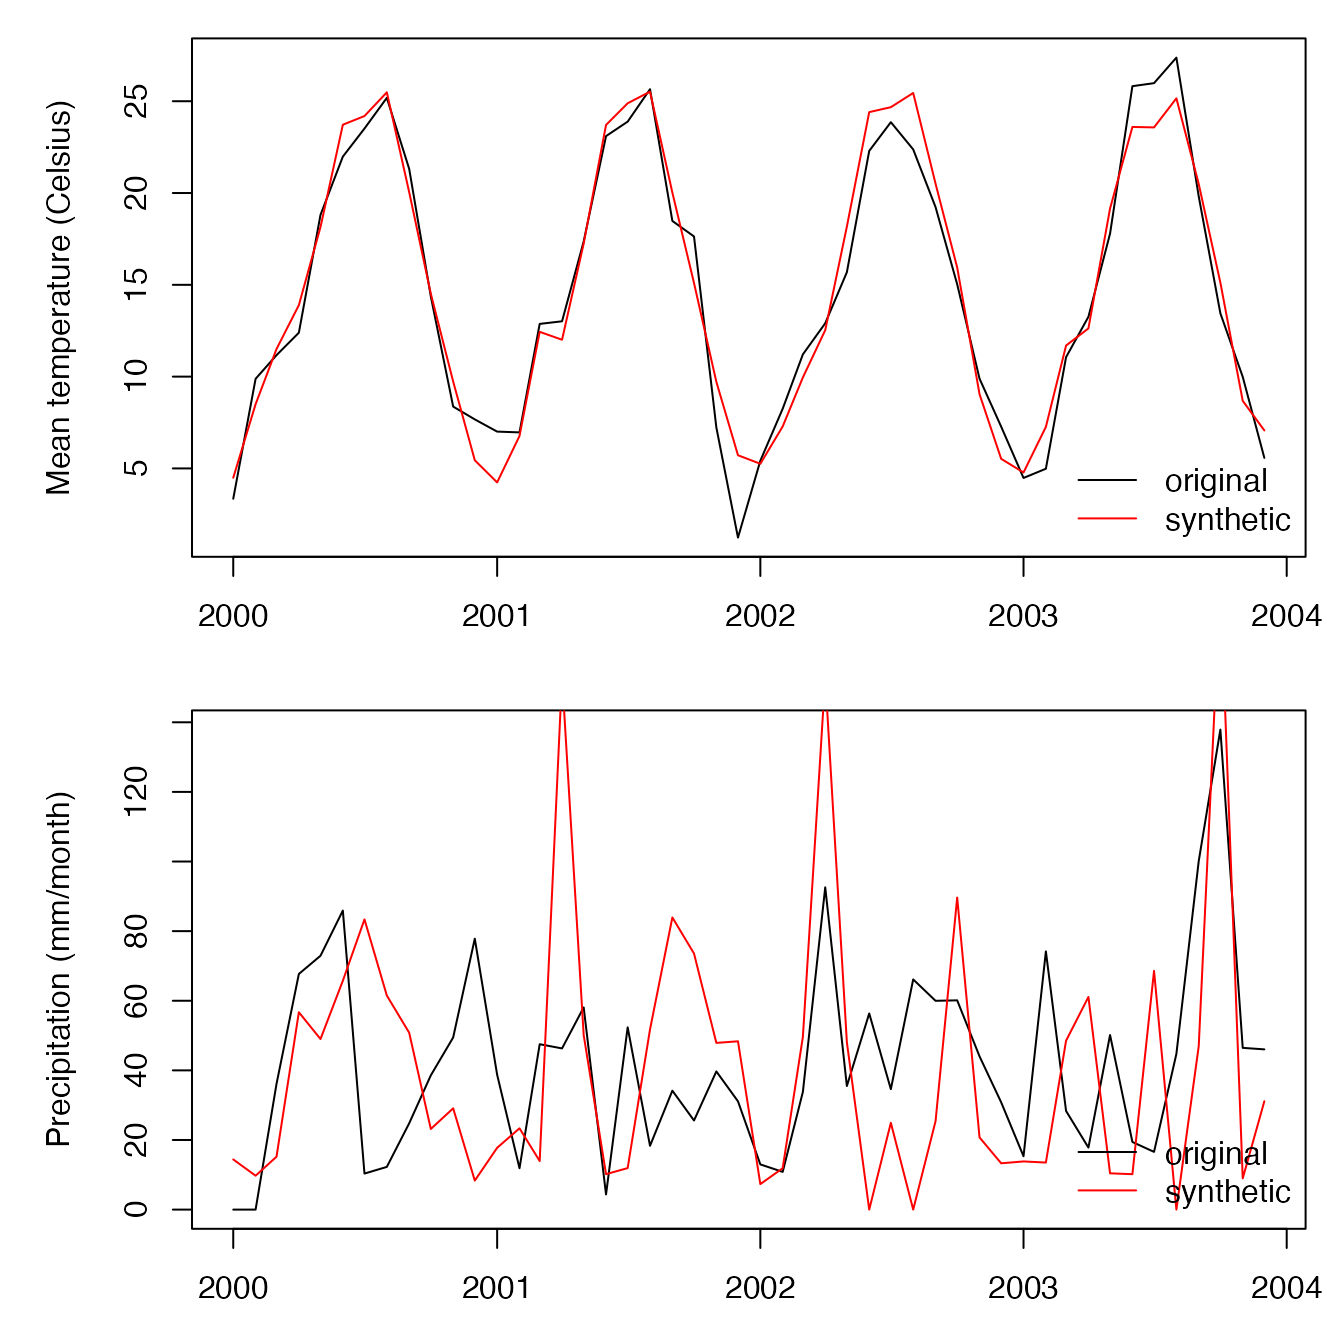
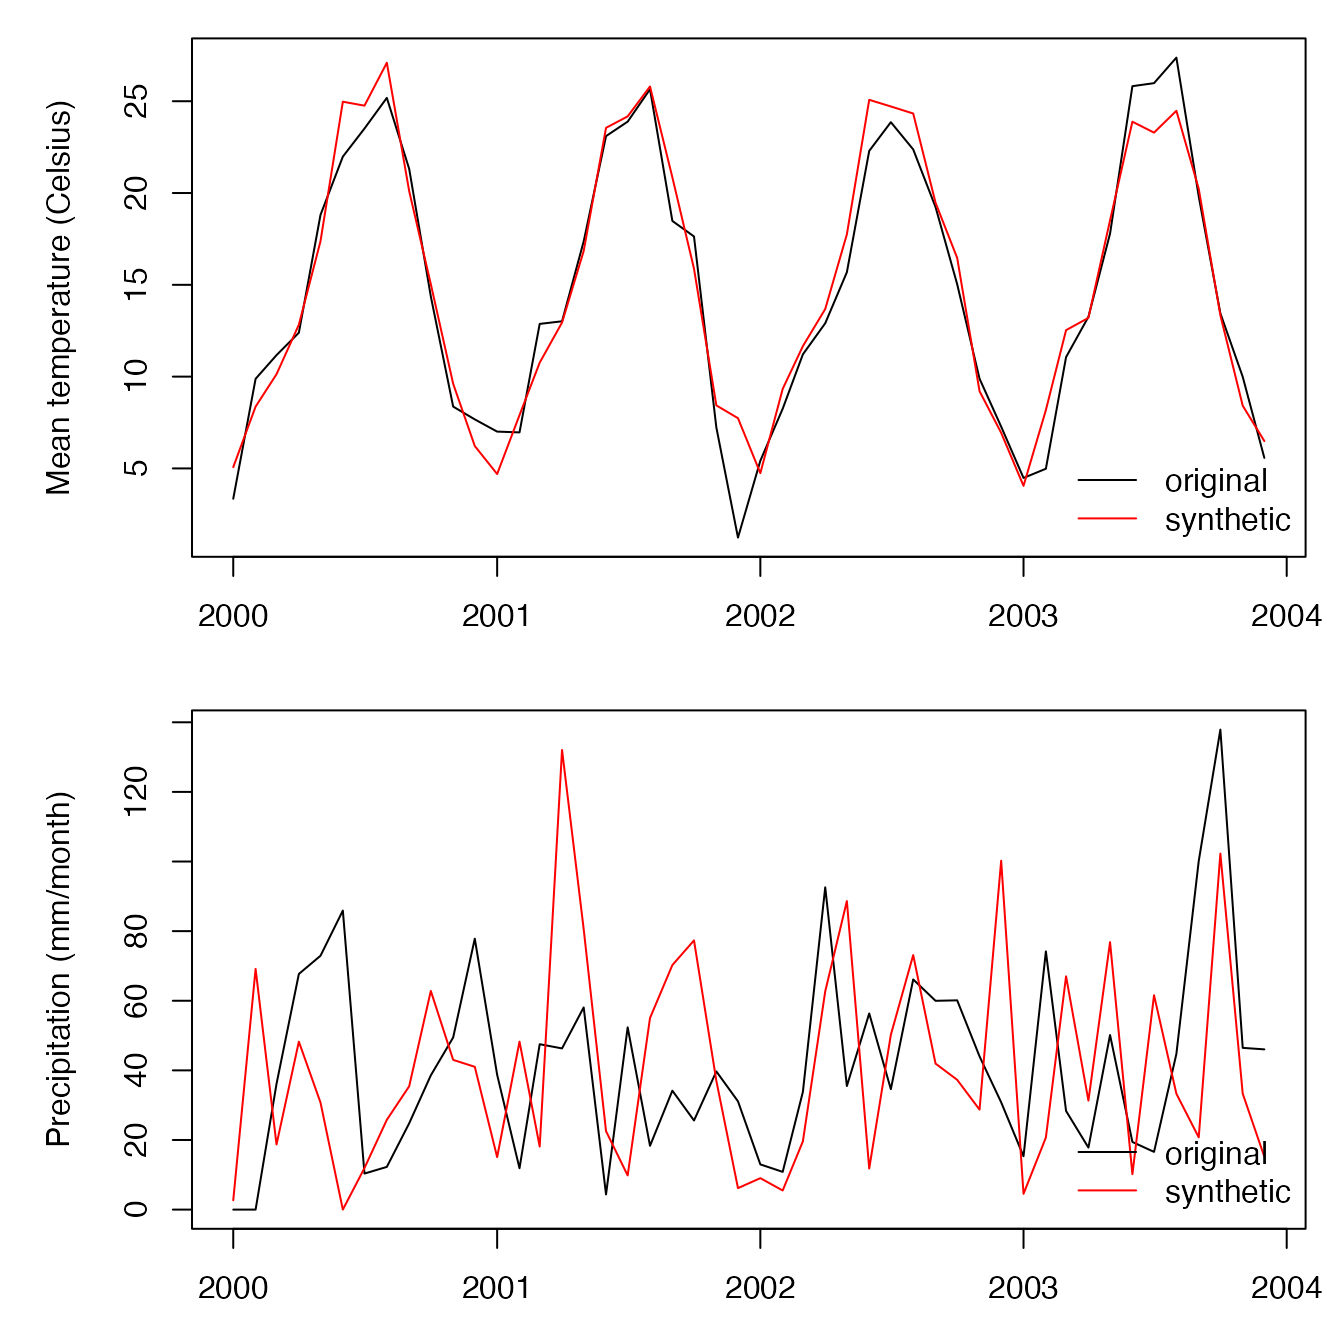
Built site for meteoland: 1.0.3@31b1923

diff --git a/reference/weathergeneration.html b/reference/weathergeneration.html
@@ -113,7 +113,7 @@
 <span class="r-out co"><span class="r-pr">#&gt;</span> Annual precipitation stats: </span>
 <span class="r-out co"><span class="r-pr">#&gt;</span>               average       sd</span>
 <span class="r-out co"><span class="r-pr">#&gt;</span> input/target 456.1522 83.63653</span>
-<span class="r-out co"><span class="r-pr">#&gt;</span> simulated    377.1953 63.25168</span>
+<span class="r-out co"><span class="r-pr">#&gt;</span> simulated    456.1522 27.36058</span>
 <span class="r-in"></span>
 <span class="r-in"><span class="co">#Plot generated meteorological series</span></span>
 <span class="r-in"><span class="fu"><a href="meteoplot.html">meteoplot</a></span><span class="op">(</span><span class="va">y</span>,<span class="fl">1</span>, ylab<span class="op">=</span><span class="st">"Mean temperature"</span><span class="op">)</span></span>
